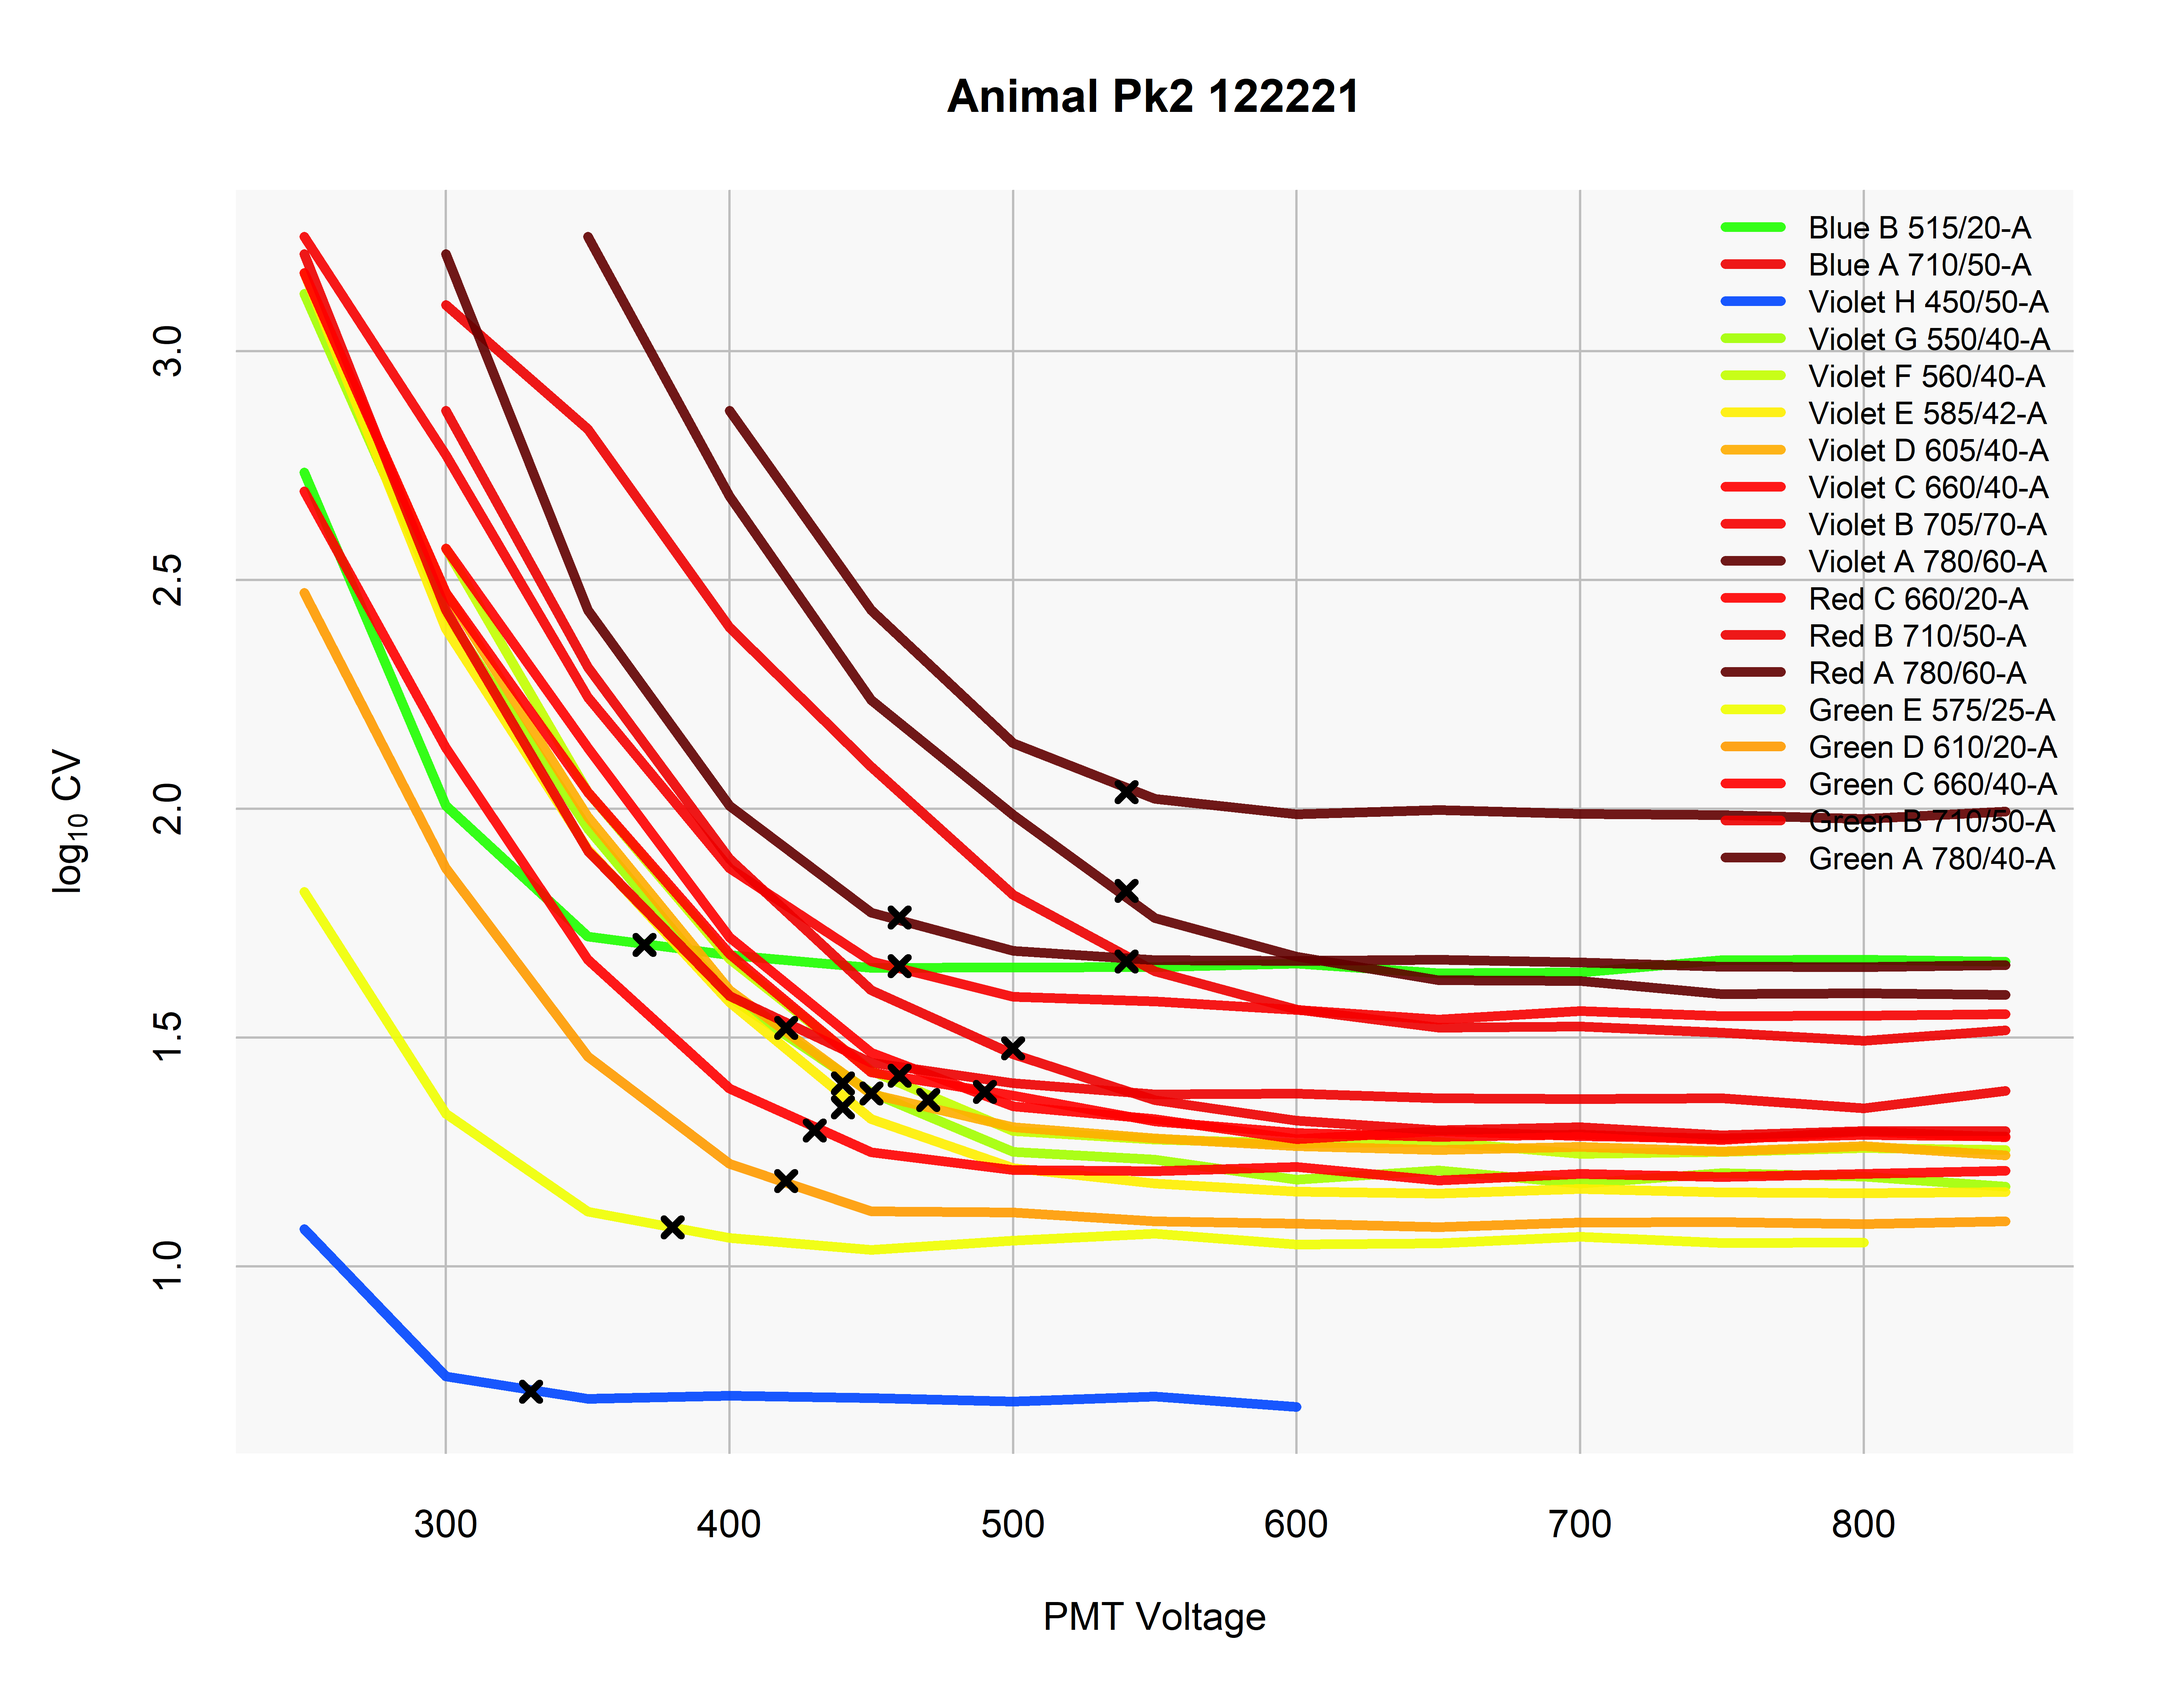
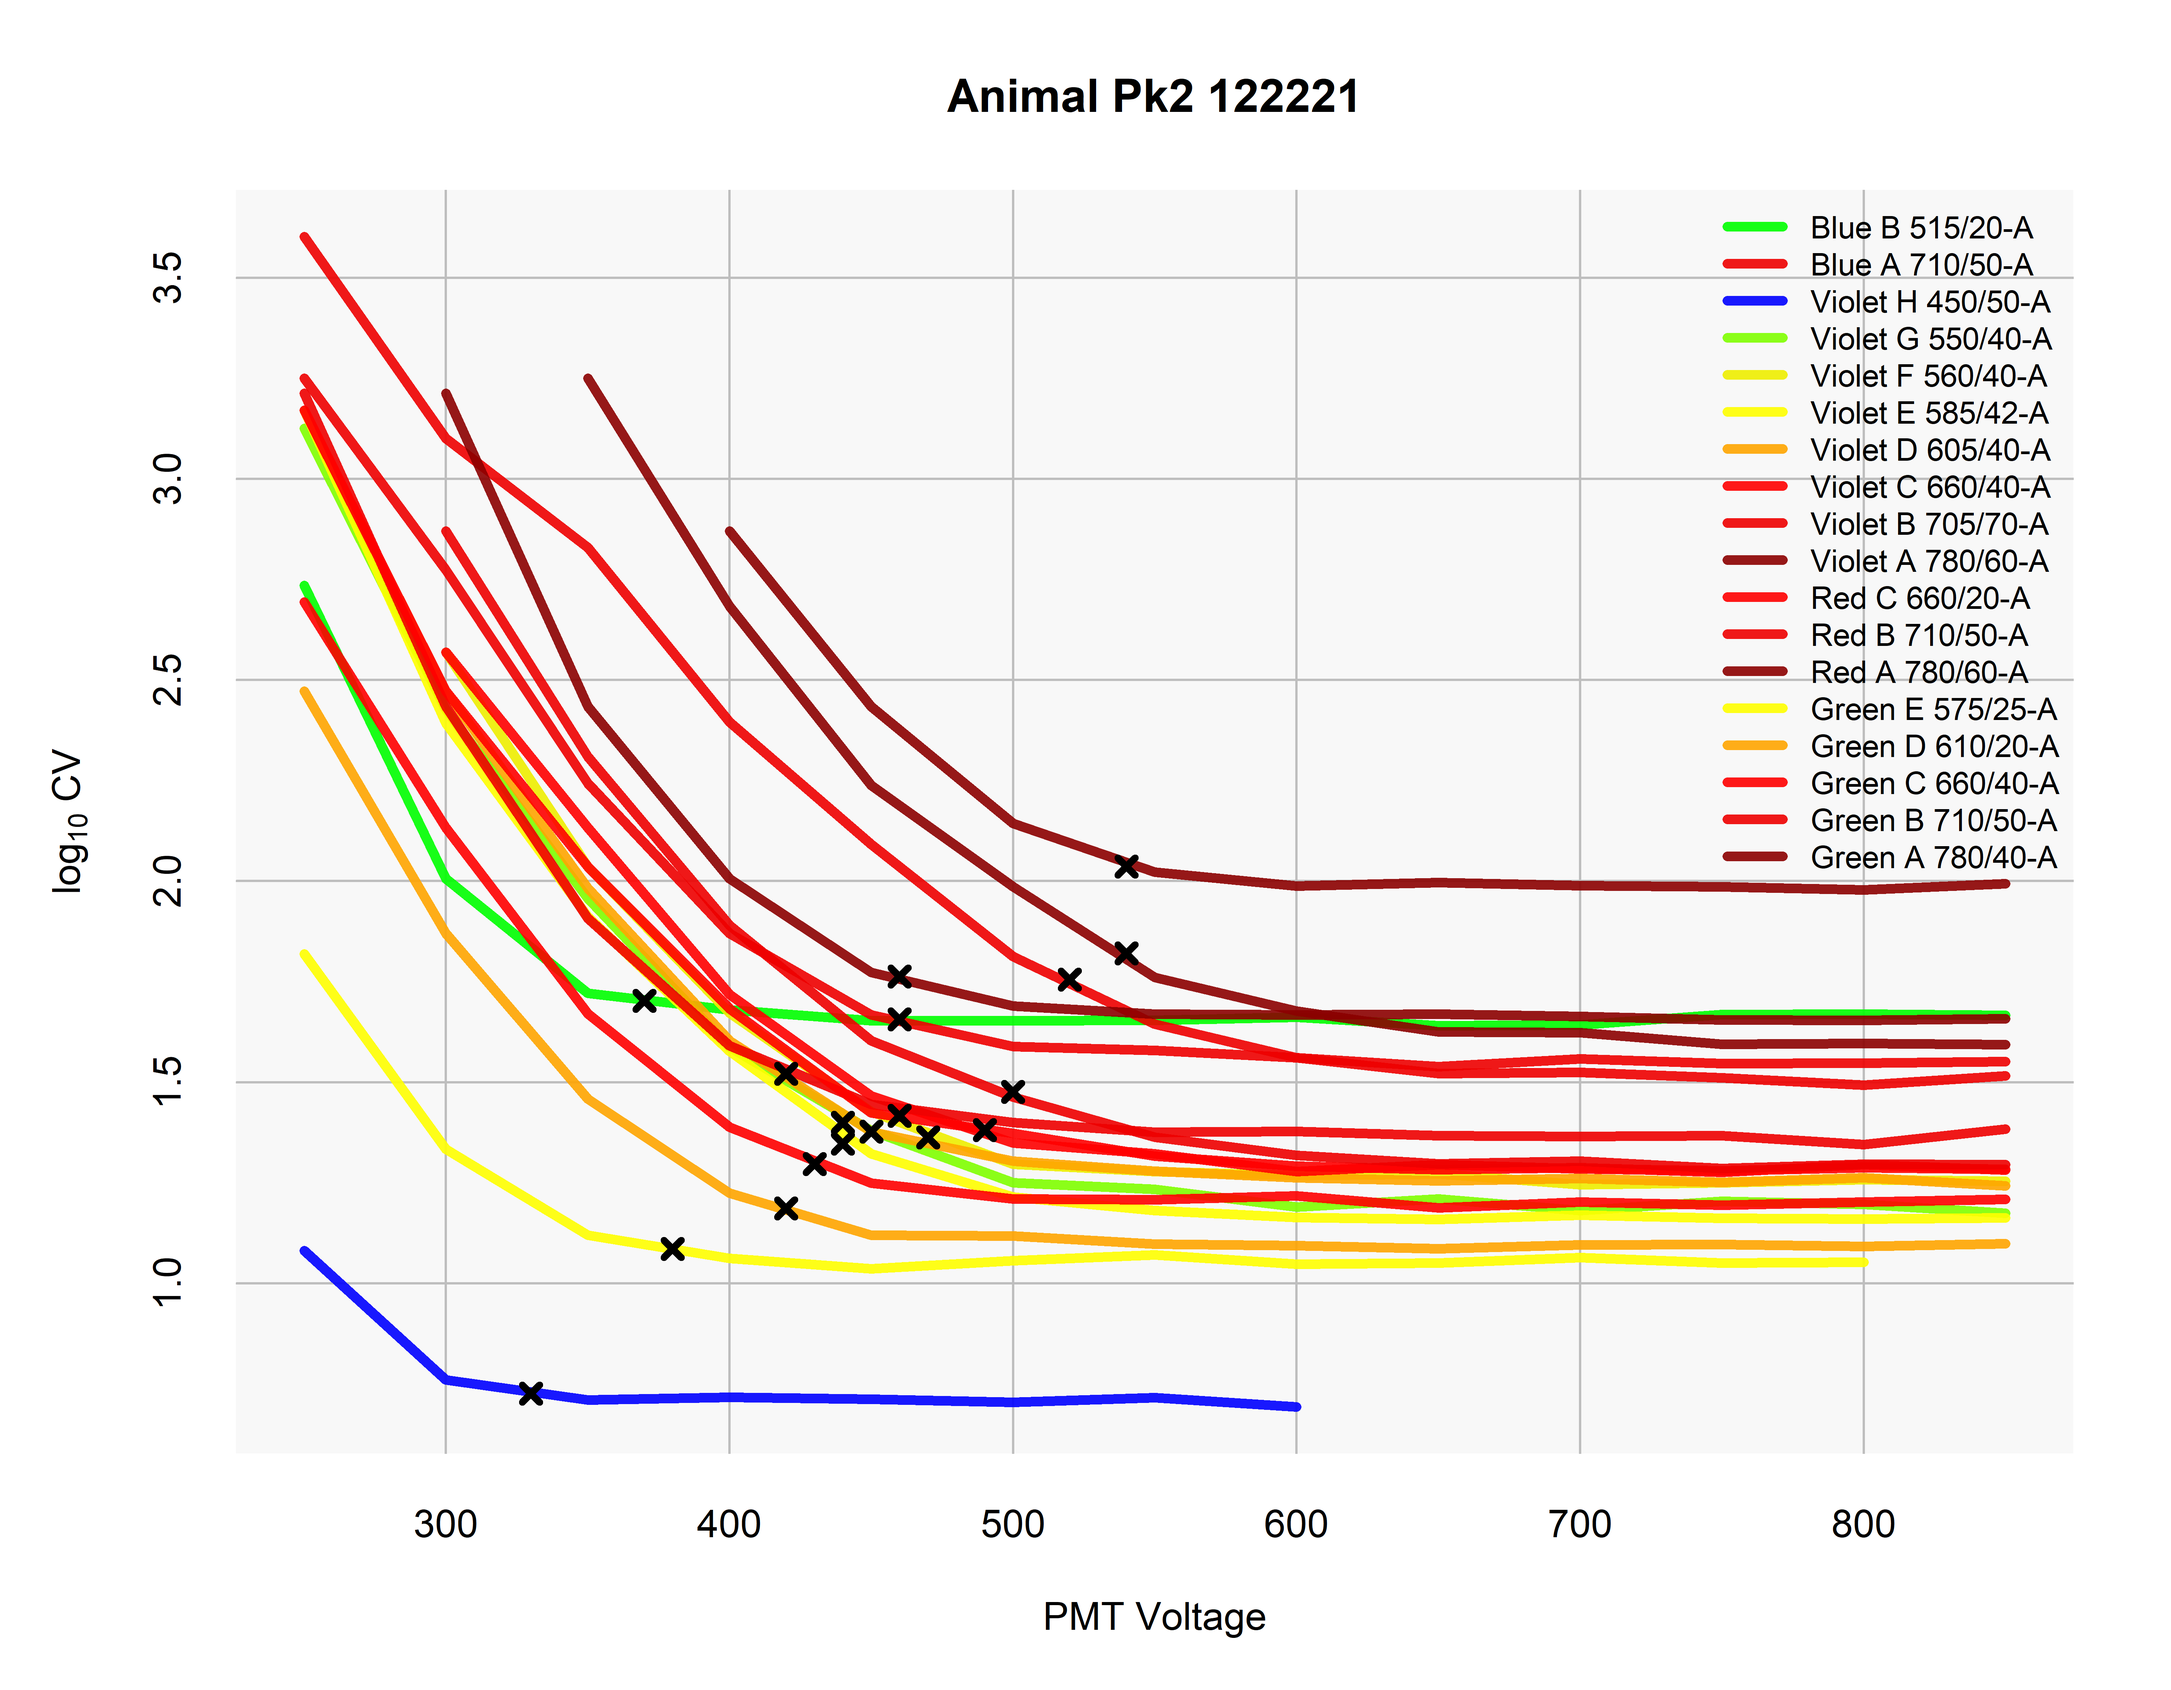
Pushing release version.

diff --git a/README.md b/README.md
@@ -4,14 +4,13 @@ Flow cytometers: calculate minimum per-channel voltage for optimal resolution se
 ## Preliminaries
 The *volta* R package is fairly easy to set up. In an R session:
 ```r
-install.packages("devtools") # If necessary.
+install.packages("remotes") # If necessary.
 # https://github.com/r-lib/remotes#environment-variables
 Sys.setenv(R_REMOTES_NO_ERRORS_FROM_WARNINGS = "true")
-devtools::install_github("priscian/volta")
-library(volta)
+remotes::install_github("priscian/volta", INSTALL_opts = c("--no-multiarch"))
 
 ## Once the package has been installed as described above, all you need to use it is:
-library(volta)
+options(keystone_parallel = TRUE); library(volta)
 ```
 
 ## Trying out *volta*
@@ -28,27 +27,32 @@ Here's the test code in detail:
 ```r
 ### Maecker & Trotter 2006
 
-library(volta)
+options(keystone_parallel = TRUE)
+.reload_all("volta"); library(magrittr)
 e <- new.env()
 load(system.file("extdata/peak2-maecker+trotter2006_2019-09-19+54111.RData",
   package = "volta"), envir = e)
-attr(e$d, "wavelength") <- c(520, 785, 578, 695) # This attribute is necessary!
-## N.B. Not necessary to set this attribute:
-attr(e$d, "experiment_name") <- "Maecker & Trotter 2006"
-v2006 <-
-  plot_peak2_data(
-    x = list(e$d),
-    image_dir = system.file("images", package = "volta"),
-    plot_series... = list(x_var = "voltage"),
-    create_smooth_variables... = list(x_var = "voltage"),
-    save_png = FALSE
-  )
+p2 <- list(`Maecker & Trotter 2006` = structure(e$d %>% dplyr::rename(quantity = 1),
+  color = keystone::wavelength2col(c(520, 785, 578, 695)), # This attribute is necessary!
+  ## N.B. Not necessary to set this attribute:
+  experiment_name = "Maecker & Trotter 2006"))
+fip <- p2 %>% volta:::find_inflection_point()
+p2 <- sapply(names(p2),
+  function(i) { (structure(p2[[i]], plot_data = fip[[i]]) %>%
+    keystone::add_class("volta")) },
+  simplify = FALSE)
 
-print(v2006[[1]]$table)
+plot(p2[[1]])
+
+attr(p2[[1]], "plot_data")$inflection_points %>%
+  dplyr::rename(
+    !!names(formals(volta:::plot.volta)$x_var_lab %>% keystone::poly_eval()) := "inflection",
+    !!names(formals(volta:::plot.volta)$y_var_lab %>% keystone::poly_eval()) := "y"
+  ) %>% print
 ```
 
 ### More information
-*volta* is presented here as a working beta. For more information on what the package offers, check out
+*volta* is presented here as an early-version release. For more information on what the package offers, check out
 ```r
 library(help = volta)
 ```
@@ -59,14 +63,15 @@ from the R command line.
 *volta*'s installation directory includes Peak 2 FCS files from the URMC (Rochester, New York, USA) Flow Core's suite of instruments; featured are: Animal (BD LSR II), Dr. Teeth (BD LSRFortessa™), and Statler (BD FACSAria™ II)—guess the naming theme! Runs of Peak 2 beads at various voltages are stored in directories named after each machine. Let's assume that we have enough data to determine the minimum per-channel voltage for optimal resolution sensitivity for each instrument, and let's furthermore put *volta* into action finding those voltages for us.
 
 ```r
+options(keystone_parallel = TRUE)
+options(volta_interactive_off = TRUE)
 library(volta)
-## Retrieve Peak 2 data
-x <- get_peak2_data(
-  system.file("extdata/peak2-fcs", package = "volta"),
-  list.dirs... = list(recursive = TRUE), use_spillover_channels = TRUE)
+## Create parameters sheet for voltration analysis from FCS files
+p <- prepare_data(system.file("extdata/peak2-fcs", package = "volta"))
+## Calculate voltration data set with inflection points
+v <- get_voltration_data(p)
 ## Plot CV vs. PMT voltage curves calculated from Peak 2 data
-p <- plot_peak2_data(x, max_cv_threshold = 2000, keep_longest_continuous = TRUE,
-  round_to_nearest_volts = 10)
+plot_voltration_data(v)
 ```
 
 ### Graphical output
@@ -85,129 +90,120 @@ p <- plot_peak2_data(x, max_cv_threshold = 2000, keep_longest_continuous = TRUE,
 
 ```r
 ## Show table of CV-vs-V inflection points for each channel & each instrument
-> sapply(p, `[[`, i = "table", simplify = FALSE) %>% print
-$`[...]/Animal Pk2 122221`
-             channel PMT_voltage log10_CV
-1    Blue B 515/20-A         370     1.70
-2    Blue A 710/50-A         540     1.67
-3  Violet H 450/50-A         330     0.73
-4  Violet G 550/40-A         450     1.38
-5  Violet F 560/40-A         470     1.36
-6  Violet E 585/42-A         440     1.35
-7  Violet D 605/40-A         440     1.40
-8  Violet C 660/40-A         490     1.38
-9  Violet B 705/70-A         460     1.66
-10 Violet A 780/60-A         540     2.04
-11    Red C 660/20-A         430     1.30
-12    Red B 710/50-A         420     1.52
-13    Red A 780/60-A         460     1.76
-14  Green E 575/25-A         380     1.09
-15  Green D 610/20-A         420     1.19
-16  Green C 660/40-A         460     1.42
-17  Green B 710/50-A         500     1.48
-18  Green A 780/40-A         540     1.82
+> sapply(v, function(a) attr(a, "plot_data")$inflection_points %>%
++   dplyr::rename(PMT_voltage = 2, log10_CV = 3), simplify = FALSE)
+$`Animal Pk2 122221`
+             channel PMT_voltage  log10_CV
+1    Blue B 515/20-A         370 1.7023795
+2    Blue A 710/50-A         520 1.7550937
+3  Violet H 450/50-A         330 0.7260804
+4  Violet G 550/40-A         450 1.3776819
+5  Violet F 560/40-A         470 1.3634206
+6  Violet E 585/42-A         440 1.3478023
+7  Violet D 605/40-A         440 1.3997432
+8  Violet C 660/40-A         490 1.3815358
+9  Violet B 705/70-A         460 1.6562864
+10 Violet A 780/60-A         540 2.0365942
+11    Red C 660/20-A         430 1.2968331
+12    Red B 710/50-A         420 1.5210990
+13    Red A 780/60-A         460 1.7625997
+14  Green E 575/25-A         380 1.0859096
+15  Green D 610/20-A         420 1.1867483
+16  Green C 660/40-A         460 1.4167239
+17  Green B 710/50-A         500 1.4764845
+18  Green A 780/40-A         540 1.8206604
 
-$`[...]/Dr Teeth Pk 2 122221`
-             channel PMT_voltage log10_CV
-1    Blue B 530/30-A         450     1.37
-2    Blue A 710/50-A         520     1.72
-3     Red C 670/14-A         450     1.27
-4     Red B 730/45-A         450     1.39
-5     Red A 780/60-A         470     1.59
-6  Violet F 431/28-A         420     0.65
-7  Violet E 525/50-A         430     0.84
-8  Violet D 610/20-A         500     1.51
-9  Violet C 660/20-A         510     1.58
-10 Violet B 710/50-A         560     1.70
-11 Violet A 780/60-A         570     2.09
-12     YG E 586/15-A         430     1.38
-13     YG D 610/20-A         440     1.40
-14     YG C 670/30-A         430     1.50
-15     YG B 710/50-A         470     1.73
-16     YG A 780/60-A         540     1.80
-17     UV B 379/28-A         480     1.33
-18     UV A 740/35-A         630     2.32
+$`Dr Teeth Pk 2 122221`
+             channel PMT_voltage  log10_CV
+1    Blue B 530/30-A         450 1.3669519
+2    Blue A 710/50-A         520 1.7164870
+3     Red C 670/14-A         450 1.2678660
+4     Red B 730/45-A         450 1.3876899
+5     Red A 780/60-A         470 1.5906573
+6  Violet F 431/28-A         420 0.6520710
+7  Violet E 525/50-A         430 0.8359811
+8  Violet D 610/20-A         500 1.5111939
+9  Violet C 660/20-A         510 1.5843604
+10 Violet B 710/50-A         560 1.6994997
+11 Violet A 780/60-A         570 2.0850087
+12     YG E 586/15-A         430 1.3781064
+13     YG D 610/20-A         440 1.4030870
+14     YG C 670/30-A         430 1.5033048
+15     YG B 710/50-A         470 1.7330610
+16     YG A 780/60-A         540 1.7998980
+17     UV B 379/28-A         460 1.3941904
+18     UV A 740/35-A         600 2.3633671
 
-$`[...]/Peak 2 statler LN Z01 122221`
-             channel PMT_voltage log10_CV
-1     Red C 670/14-A         420     1.35
-2     Red B 730/45-A         430     1.46
-3     Red A 780/60-A         480     1.75
-4    Blue B 510/21-A         510     1.74
-5    Blue A 710/50-A         390     2.13
-6  Violet G 450/50-A         490     0.92
-7  Violet F 550/50-A         420     1.45
-8  Violet E 585/42-A         410     1.59
-9  Violet D 605/40-A         430     1.64
-10 Violet C 660/20-A         510     2.04
-11 Violet B 705/70-A         440     2.01
-12 Violet A 780/60-A         520     2.48
-13  Green E 575/25-A         460     1.37
-14  Green D 610/20-A         490     1.43
-15  Green C 660/20-A         510     1.79
-16  Green B 710/50-A         520     1.83
-17  Green A 780/60-A         590     2.30
+$`Peak 2 statler LN Z01 122221`
+             channel PMT_voltage  log10_CV
+1     Red C 670/14-A         420 1.3536483
+2     Red B 730/45-A         430 1.4581357
+3     Red A 780/60-A         480 1.7466976
+4    Blue B 510/21-A         510 1.7370133
+5    Blue A 710/50-A         390 2.1336790
+6  Violet G 450/50-A         490 0.9208474
+7  Violet F 550/50-A         420 1.4459166
+8  Violet E 585/42-A         410 1.5869469
+9  Violet D 605/40-A         430 1.6352509
+10 Violet C 660/20-A         510 2.0387778
+11 Violet B 705/70-A         440 2.0057206
+12 Violet A 780/60-A         520 2.4778029
+13  Green E 575/25-A         460 1.3724170
+14  Green D 610/20-A         490 1.4257077
+15  Green C 660/20-A         510 1.7861783
+16  Green B 710/50-A         520 1.8279439
+17  Green A 780/60-A         590 2.2966084
 ```
 
 ### Function signatures
 <!--<br/>-->
 [//]: <br/>
 
-This is the function signature of `get_peak2_data()` with annotations:
+This is the function signature of `prepare_data()` with annotations:
 
 ```r
-get_peak2_data <- function(
-  path = ".",
-  ## These calcs typically rely on data stored in ad-hoc keywords
-  ##   for parameter n, e.g. PnV (_V_oltage), PnG (_G_ain):
-  cv_keyword_fmt = "$P%sV",
-  ## 'analysis_channels_re' is one of: 1-element regex/character vector;
-  ##   2+-element vector of channel names
-  analysis_channels_re = stringr::regex("^(?!(fsc|ssc|time).*)",
-    ignore_case = TRUE),
-  ## 'use_spillover_channels' overrides 'analysis_channels_re' if TRUE;
-  ##   if TRUE, use channel names from spillover matrix
-  use_spillover_channels = FALSE,
+prepare_data <- function(
+  x,
+  ..., # Passed on to 'guess_parameters()'
+  choose_excel = FALSE,
+  copy_params = TRUE
+)
+{...}
+```
+
+This is the function signature of `get_voltration_data()` with annotations:
+
+```r
+get_voltration_data <- function(
+  x, # volta analysis parameters as a data frame or spreadsheet path
   create_si_data = FALSE,
-  prepare_augmented_fcs_data... = list(),
-  list.dirs... = list(),
-  list.files... = list(),
   read.FCS... = list(),
   min_zero = FALSE,
   ## Default CV is BD Biosciences' robust coefficient of variation (BD-rCV):
   cv_fun = keystone::bd_rcv,
   cv_multiplier = 100,
   replace_with_na_condition = ~ is.infinite(.x) | is.nan(.x) | .x < 0.0,
-  color_nm_map = keystone::color_nm_map
+  copy_results = TRUE,
+  expand_parameters_data... = list(),
+  ... # Arguments for function 'find_inflection_point()'
 )
 {...}
 ```
 
-This is the function signature of `plot_peak2_data()` with annotations:
+This is the function signature of `plot_voltration_data()` with annotations:
 
 ```r
-plot_peak2_data <- function(
-  x,
-  report_dir = NULL, # Optional path to report's output directory
-  image_dir = report_dir,
-  trans_fun = log10, # Also possibly 'identity'
-  replace_with_na_condition = ~ is.infinite(.x) | is.nan(.x),
-  max_cv_threshold = Inf, # Make anomalously high-valued CVs into missings
-  ## If TRUE, keep only longest stretch of CVs without missing values:
-  keep_longest_continuous = FALSE,
-  remove_empty_cols = TRUE,
+plot_voltration_data <- function(
+  x, # Result from 'get_voltration_data()'
+  report_path = NULL,
+  image_dir = NULL,
   save_png = FALSE, # If TRUE, save PNG plots to report directory
   png... = list(),
-  default_color_fun = colorspace::rainbow_hcl,
   x_var_lab = c(PMT_voltage = "PMT Voltage"),
+  ## N.B. 'names(y_var_lab)' will correctly extract "log10_CV":
   y_var_lab = c(log10_CV = expression(paste(log[10], " CV"))),
   plot_series... = list(),
-  create_smooth_variables... = list(),
-  plot_derivative = FALSE,
   points... = list(),
-  debug = FALSE,
-  round_to_nearest_volts = 1, # Round to nearest multiple of this value
-  round_any_fun = round,
   xlsx_expression = NULL,
   ## Noli me tangere; when TRUE, used for IRR checks:
   plot_individual_channels = FALSE
